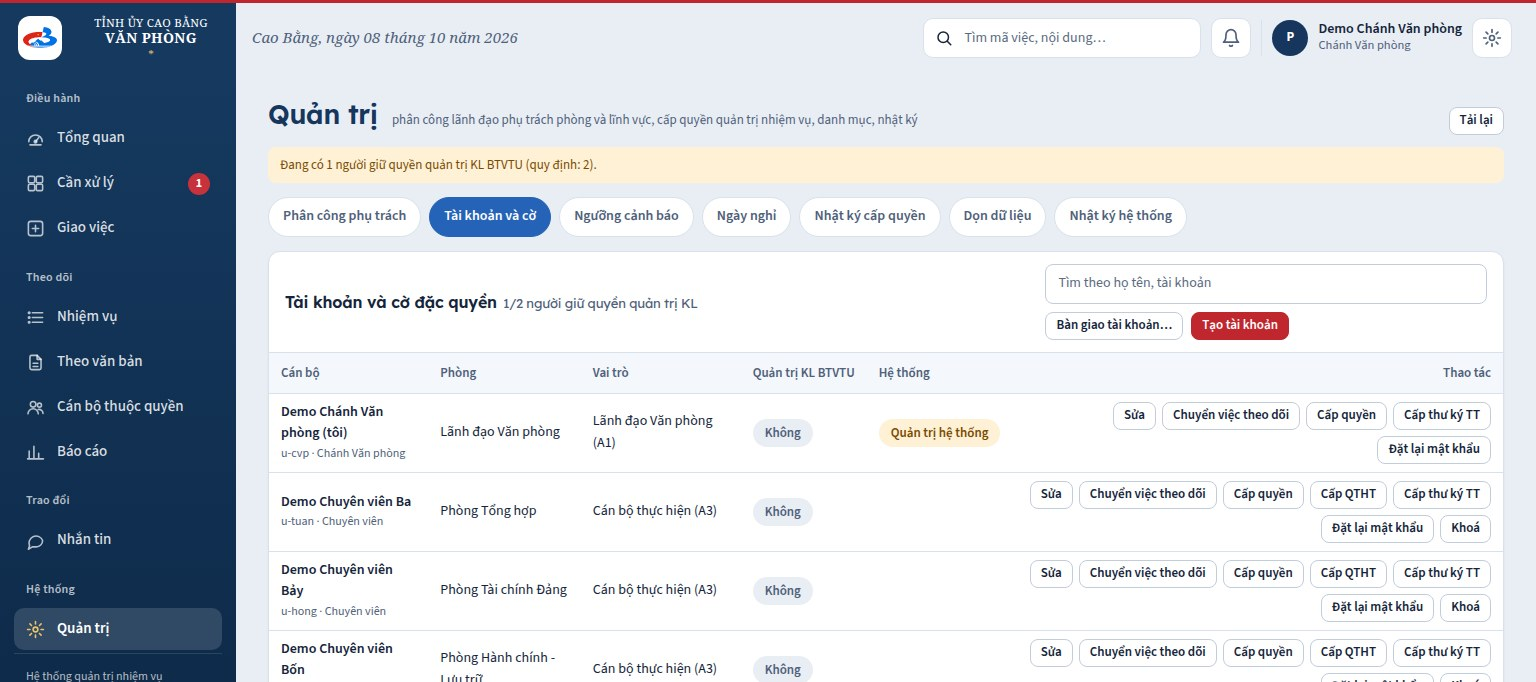
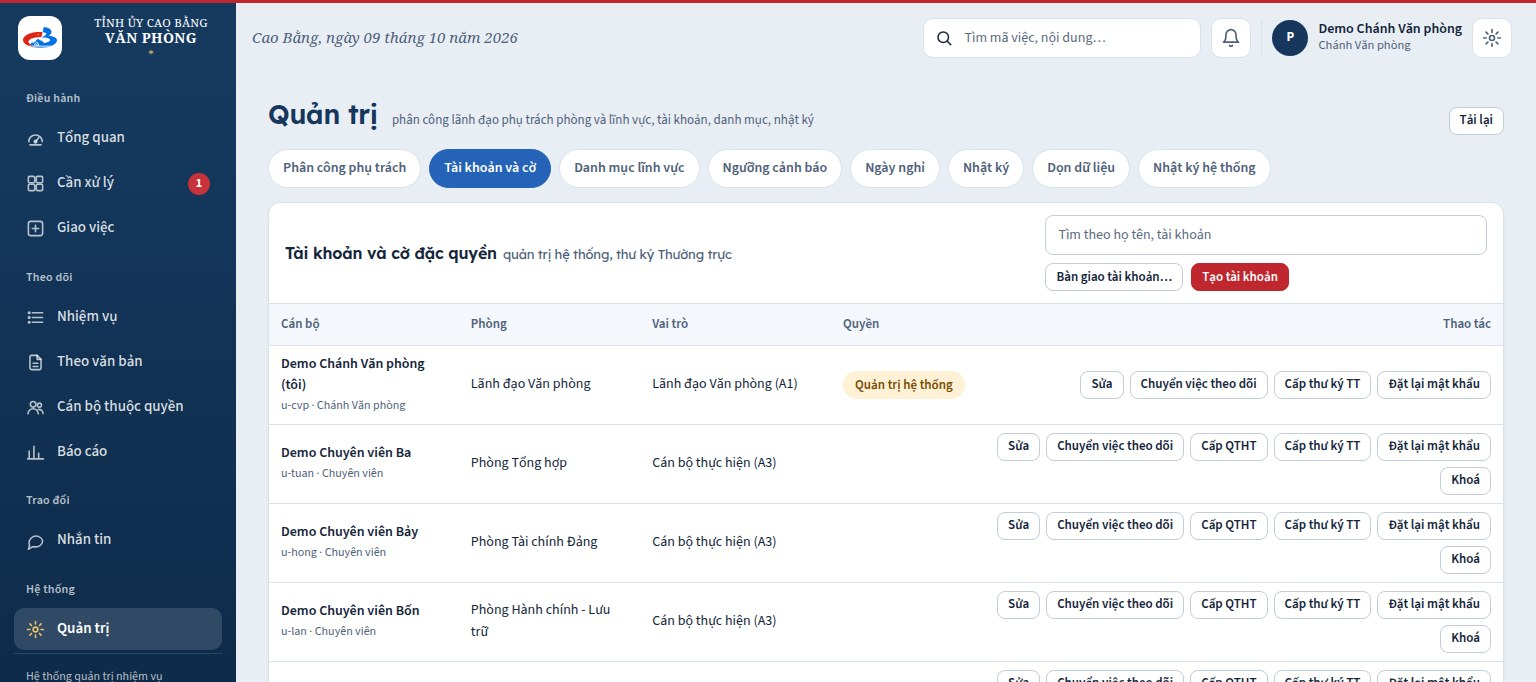
Phát hành v3.21.0: HDSD 3.21, GO-LIVE-V3.21, CHANGELOG 65
- HDSD 3.21: bảng vai trò bỏ "Cán bộ tổng hợp"; nhập Excel, nhập việc thay mặt lãnh đạo,
  danh mục lĩnh vực là việc chung ("Nhập bởi …"); Phần 8 bỏ cấp quyền quản trị nhiệm vụ;
  chụp lại a3-11-giao-viec, qt-02-tai-khoan.
- docs/GO-LIVE-V3.21.md: kiểm tay staging, SELECT xem trước, tag, cấu hình.

Claude-Session: https://claude.ai/code/session_016CpGzbs1aZfDs6AuZ5GTv4

diff --git a/docs/TRANG-THAI.md b/docs/TRANG-THAI.md
@@ -1,4 +1,4 @@
-# TRẠNG THÁI DỰ ÁN — bản bàn giao (cập nhật: 2026-10-09 — Đợt F v3.21 (0095–0097, bỏ quyền quản trị nhiệm vụ) đang trên nhánh `feature/dot-f-chuyen-vien-ngang-nhau`; production đang chạy **`v3.20.0`** (migration 0001–0094, phát hành 8/10/2026 18:05, tag trên `5fec72d`, PR #124 merge `fbd08a6`) — gộp Đợt B, E, C1, C2, D; cấu hình production chưa đổi (ba khoá mặc định 1), còn việc tay theo `docs/GO-LIVE-V3.20.md` Bước 4–6; trước đó `v3.17.0` (Đợt A: bỏ hạn nộp minh chứng, giao nhiều nhiệm vụ bằng thẻ, giao cho chính mình, tìm nhanh; migration 0077–0078, tag trên đầu nhánh `release/v3.17.0`). Đặc tả UI/UX hiện hành: `docs/DESIGN.md` mục 10 + `docs/ui-ux/mockup-v9.html`.)
+# TRẠNG THÁI DỰ ÁN — bản bàn giao (cập nhật: 2026-10-09 — Đợt F v3.21 (0095–0097, bỏ quyền quản trị nhiệm vụ) đã merge (PR #126), staging đã áp 0095–0097; chờ phát hành `v3.21.0` theo `docs/GO-LIVE-V3.21.md` (nhánh `release/v3.21.0`, HDSD 3.21); production đang chạy **`v3.20.0`** (migration 0001–0094, phát hành 8/10/2026 18:05, tag trên `5fec72d`, PR #124 merge `fbd08a6`) — gộp Đợt B, E, C1, C2, D; cấu hình production chưa đổi (ba khoá mặc định 1), còn việc tay theo `docs/GO-LIVE-V3.20.md` Bước 4–6; trước đó `v3.17.0` (Đợt A: bỏ hạn nộp minh chứng, giao nhiều nhiệm vụ bằng thẻ, giao cho chính mình, tìm nhanh; migration 0077–0078, tag trên đầu nhánh `release/v3.17.0`). Đặc tả UI/UX hiện hành: `docs/DESIGN.md` mục 10 + `docs/ui-ux/mockup-v9.html`.)
 
 Đọc trước: `CLAUDE.md` (quy tắc), **`docs/MUC-TIEU-1400.md` (thước đo mọi giai đoạn)**, `docs/SPEC.md` (v3, nghiệp vụ), `docs/RA-SOAT-HIEN-TRANG.md` (giữ/sửa/hợp nhất/bỏ), `docs/CAU-HOI-NGHIEP-VU.md` (15 câu chờ chủ dự án), `docs/LO-TRINH-V3.md` (GĐ14–24, migration từ 0022), `docs/DESIGN.md` (hệ thống thiết kế; **mục 10 = giao diện v9, đặc tả hiện hành**) + **`docs/ui-ux/mockup-v9.html`** (bản mẫu v9; `mockup-v8/` và `mockup-v7.html` là lịch sử — v9 thắng khi khác), `docs/kien-truc.md` (pipeline, secret, quay lui), `docs/PROMPTS.md` (prompt theo giai đoạn). Tra cứu: `docs/SPEC-v2-luu.md` (mã yêu cầu cũ), `docs/thiet-ke-theo-doi-kl-btvtu.md` (thiết kế GĐ8–10, đóng băng). Lịch sử: `CHANGELOG.md` mục 7–20.
 
@@ -106,7 +106,7 @@ git tag v2.x.y && git push origin v2.x.y                        # → deploy-pro
 
 -11. **CI e2e cục bộ + Đợt B v3.18** (7–8/10/2026, PR #119 CI, PR Đợt B nhánh `feature/dot-b-thay-mat-nhom`, CHANGELOG 57–58): PR chạy e2e trên Supabase cục bộ của runner (≈ 7 phút, không phụ thuộc staging), staging chỉ smoke sau merge + bộ đủ 03:00 (`kiem-thu-dem.yml`). Đợt B (migration **0079–0084**): Owner luôn là phòng / cán bộ Văn phòng (đơn vị ngoài bị chặn mọi vai, Excel → chờ hoàn thiện); thay mặt theo nhóm "Lãnh đạo Văn phòng" / "Thường trực Tỉnh ủy" (`giao_thay_mat_nhom` + người đại diện ở `giao_thay_mat_cho`; nhóm Lãnh đạo VP = Chánh VP + PCVP trong phạm vi việc được báo / duyệt — 0083; thay mặt Thường trực = Thường trực giao, cả ở nghiệm thu); Chánh VP / quản trị KL chọn được lãnh đạo VP làm Owner. **Khi áp production**: 0079–0084 không đổi dữ liệu cũ; cần chủ dự án xác nhận trong phiên (quy tắc 12). HDSD: nội dung 5.3, 7.1, 7.7 đã sửa, **chưa dựng lại PDF / DOCX và chưa đổi PHIEN_BAN 3.18** (làm ở PR phát hành). Khối 3 "Sản phẩm và hạn": chủ dự án chọn gộp một bố cục (8/10) — đã làm trong cùng PR: biểu mẫu hai khối, thẻ 1 = ô chính, "+ Thêm nhiệm vụ", "Thông tin thêm" thu gọn; ảnh chụp HDSD gv-02 / gv-04 / a0-03b / a1-03 / a2-03 cần chụp lại khi dựng PDF v3.18.
 
--17. **Đợt F v3.21 — mọi chuyên viên ngang nhau** (9/10/2026, nhánh `feature/dot-f-chuyen-vien-ngang-nhau`, migration **0095–0097**, CHANGELOG 64, SPEC GV-19): chủ dự án quyết bỏ quyền quản trị nhiệm vụ (`quan_tri_kl`) và Ủy quyền giao việc; nhập Excel, nhập việc thay mặt lãnh đạo / Thường trực, sửa danh mục lĩnh vực thành quyền chung (mọi tài khoản trừ Thường trực), lưu vết chỉ ghi tài khoản thực hiện ("Nhập bởi X", không ghi "thay mặt Y" — cả vết cũ trong diễn biến); người nhập xem lại và là tầng giao của việc mình nhập; giữ thư ký Thường trực (đóng chỉ đạo TT thay mặt) và quản trị hệ thống. 0096 **thu cờ `quan_tri_kl` của mọi tài khoản khi áp** (ghi nhật ký). 0097 (rà soát): Excel "đã xong ngoài hệ thống" kiểm phạm vi, cập nhật theo mã ngoài phạm vi bị bỏ qua. Còn: CI, merge, phát hành `v3.21.0` (câu xác nhận áp 0095–0097 lên production trong phiên); trên production còn đặt `pham_vi_chuyen_vien = 2` nếu muốn chuyên viên có "Tổng quan phòng" (GO-LIVE Bước 4).
+-17. **Đợt F v3.21 — mọi chuyên viên ngang nhau** (9/10/2026, nhánh `feature/dot-f-chuyen-vien-ngang-nhau`, migration **0095–0097**, CHANGELOG 64, SPEC GV-19): chủ dự án quyết bỏ quyền quản trị nhiệm vụ (`quan_tri_kl`) và Ủy quyền giao việc; nhập Excel, nhập việc thay mặt lãnh đạo / Thường trực, sửa danh mục lĩnh vực thành quyền chung (mọi tài khoản trừ Thường trực), lưu vết chỉ ghi tài khoản thực hiện ("Nhập bởi X", không ghi "thay mặt Y" — cả vết cũ trong diễn biến); người nhập xem lại và là tầng giao của việc mình nhập; giữ thư ký Thường trực (đóng chỉ đạo TT thay mặt) và quản trị hệ thống. 0096 **thu cờ `quan_tri_kl` của mọi tài khoản khi áp** (ghi nhật ký). 0097 (rà soát): Excel "đã xong ngoài hệ thống" kiểm phạm vi, cập nhật theo mã ngoài phạm vi bị bỏ qua. PR #126 merge (CI xanh lượt đầu). Còn: phát hành `v3.21.0` theo `docs/GO-LIVE-V3.21.md` (câu xác nhận áp 0095–0097 lên production trong phiên, tag, duyệt); trên production còn đặt `pham_vi_chuyen_vien = 2` nếu muốn chuyên viên có "Tổng quan phòng" (GO-LIVE Bước 4).
 
 -16. **Phát hành v3.20.0 — ĐÃ LÊN PRODUCTION** (8/10/2026, nhánh `release/v3.20.0`, CHANGELOG 63; kiểm tay staging đạt, chủ dự án chọn không thử gắn tệp tay để tiết kiệm dung lượng — CI đã kiểm; SELECT xem trước: 0 minh chứng chờ, 0 việc tự hoàn thành; chủ dự án xác nhận trong phiên, đẩy tag, duyệt; deploy-prod xanh đủ: backup → db push → Pages → smoke, tag `production` = `5fec72d`). Chủ dự án muốn chuyên viên có Tổng quan phòng → đặt `pham_vi_chuyen_vien = 2` trên production (staging đã thử rồi trả về 1). Đợt D merge (PR #123, CI xanh; sửa sau CI lần 1: chặn NULL trong hàm quyền, 0094 "đã nhận" của lãnh đạo chỉ theo dõi không thay chuyên viên nhận), staging deploy xanh. HDSD 3.20 dựng lại (59 trang; ảnh chụp bằng bộ dựng thử dữ liệu hư cấu, tên "Demo …"; tệp .docx / .pdf không commit — chép vào `D:\TU 2026\kiem-thu\huong-dan-su-dung\`). Các bước còn lại theo `docs/GO-LIVE-V3.20.md`, mỗi lần một bước: (1) chủ dự án kiểm tay staging 9 mục; (2) chạy hai câu SELECT xem trước trên production; (3) câu xác nhận áp 0079–0094 + đẩy tag `v3.20.0` trên đầu nhánh phát hành + duyệt deploy; (4) Claude merge PR phát hành; (5) cấu hình, tài khoản, dữ liệu thật trên production. Ảnh HDSD còn chụp từ staging cũ (menu chưa đổi, không ảnh hưởng nội dung): nx-*, qt-01/04/06/08/09, a3-06/07/09/10, a0-*, a2-05/06/07/09/10/11, chung-01..08.
 

diff --git a/docs/GO-LIVE-V3.21.md b/docs/GO-LIVE-V3.21.md
@@ -1,0 +1,39 @@
+# Phát hành v3.21.0 — Đợt F: mọi chuyên viên ngang nhau
+
+Bản phát hành **v3.21.0** = Đợt F (PR #126, migration **0095–0097**) + PR phát hành `release/v3.21.0` (HDSD 3.21). Production đang chạy `v3.20.0` (0001–0094); staging đã áp 0001–0097 khi merge PR #126.
+
+Mỗi bước do **chủ dự án** làm (hoặc làm cùng Claude trong phiên). Claude không tự thao tác trên production, không dùng mật khẩu / khoá service. Làm **lần lượt**.
+
+## Thay đổi khi áp lên production
+- **0095, 0097**: chỉ đổi hàm / view — không đổi dữ liệu cũ. Diễn biến hiện vết cũ "X giao thay mặt Y" thành "Nhập bởi X" (bảng lịch sử giữ nguyên).
+- **0096** (đổi dữ liệu, không hoàn tác bằng hàm): **thu cờ "quản trị nhiệm vụ" của mọi tài khoản** đang giữ (kể cả ủy quyền còn hạn), mỗi tài khoản một dòng nhật ký cấp quyền + nhật ký hệ thống. Sau đó nhập Excel, nhập việc thay mặt lãnh đạo, sửa danh mục lĩnh vực là việc chung của mọi tài khoản trừ Thường trực. Giữ cờ thư ký Thường trực và quản trị hệ thống.
+- Edge Function `quan-tri-tai-khoan` được deploy lại cùng lượt (không cấp lại cờ quản trị nhiệm vụ).
+
+## Bước 1 — Kiểm tay trên staging (`https://haidang21ktvptu.github.io/vptu-mvp-task/staging/`)
+1. `demo_cv1`: **Giao việc** → ô **Thay mặt** có, để trống = giao thẳng; chọn "Demo Trưởng phòng" → giao một việc cho chính mình → mở việc: dòng đầu ngăn chi tiết ghi "… bởi Demo Chuyên viên Một", Diễn biến ghi "Nhập bởi Demo Chuyên viên Một" (không có chữ "thay mặt").
+2. `demo_cv1`: Bánh răng → **Danh mục lĩnh vực** mở được; **Nhập từ Excel** có ở màn Giao việc.
+3. `demo_qtht`: Quản trị → Tài khoản và cờ: không còn cột / nút "Quản trị KL BTVTU"; không còn thẻ Ủy quyền.
+
+## Bước 2 — Xem trước trên production (chỉ đọc, SQL Editor của project production)
+```sql
+SELECT count(*) FILTER (WHERE quan_tri_kl OR quan_tri_kl_het_han IS NOT NULL) AS se_thu_co_quan_tri_nv,
+       count(*) FILTER (WHERE thu_ky_thuong_truc AND NOT coalesce(bi_khoa, false)) AS thu_ky_tt_dang_hoat_dong
+FROM accounts WHERE NOT is_system;
+```
+`thu_ky_tt_dang_hoat_dong` nên ≥ 1: từ v3.21, xem lại kết quả việc Thường trực giao Chánh Văn phòng chỉ còn thư ký Thường trực (không còn người dự phòng giữ quyền quản trị nhiệm vụ).
+
+## Bước 3 — Phát hành (quy tắc 12 + `docs/kien-truc.md` mục 7)
+1. Chủ dự án gửi trong phiên: **"Đồng ý áp migration 0095–0097 lên production"**.
+2. PR `release/v3.21.0` xanh đủ check. Gắn tag lên **đầu nhánh phát hành**:
+   ```
+   git fetch origin && git checkout release/v3.21.0 && git pull
+   git tag v3.21.0 && git push origin v3.21.0
+   ```
+3. GitHub → Actions → run "Deploy production" của tag → **Review deployments** → duyệt; theo dõi đến smoke xanh và tag `production`.
+4. Kiểm `https://haidang21ktvptu.github.io/vptu-mvp-task/phien-ban.json` ghi `v3.21.0`; báo Claude merge PR phát hành bằng merge commit.
+
+## Bước 4 — Cấu hình production
+Muốn chuyên viên có **Tổng quan phòng** / **Nhiệm vụ của phòng** (chỉ xem): Quản trị → Ngưỡng cảnh báo → `pham_vi_chuyen_vien` = **2** (ghi lý do). Mặc định 1 = chuyên viên chỉ thấy việc của mình (chủ trì, theo dõi, đã giao, đã nhập).
+
+## Bước 5 — Hướng dẫn sử dụng
+Bản **HDSD v3.21** (59 trang, PDF + DOCX) dựng từ `docs/huong-dan-su-dung/` (không commit tệp dựng): 1.3 (bảng vai trò — bỏ dòng "Cán bộ tổng hợp"), 2 (bánh răng có Danh mục lĩnh vực), 3.11, 4.6, Phần 7 (nhập Excel, 7.7 nhập việc thay mặt), Phần 8, Phần 9; ảnh `a3-11-giao-viec`, `qt-02-tai-khoan` chụp lại.

diff --git a/docs/huong-dan-su-dung/README.md b/docs/huong-dan-su-dung/README.md
@@ -8,7 +8,7 @@ Thư mục này chứa **nguồn** của tài liệu *Hướng dẫn sử dụng
 - `build.mjs` — dựng `HDSD-VPTU-TASK.docx`; `--trang trang.json` điền số trang vào mục lục.
 - `trang.py` — đọc PDF (pdftotext) → số trang từng tiêu đề → `trang.json`.
 - `cat.py` — bảng vùng cắt của ảnh chụp (tệp `-cat.jpg`), để chữ trong hình to hơn.
-- `anh/` — 76 ảnh đang dùng, chụp trên **staging** bằng tài khoản demo (`demo_cv1`, `demo_truongphong`, `demo_cvp`, `demo_a0`, `demo_qtht`), 1536 px; dữ liệu trong ảnh là hư cấu (`phu-luc-2-hu-cau.xlsx`, `bang-theo-doi-tu-do-hu-cau.xlsx`, việc NV-4710…). Không chụp production, không ảnh có tên thật. Từ v3.20, 29 ảnh (màn hình chuyên viên, Trưởng phòng, Lãnh đạo Văn phòng, giao việc, quản trị) chụp bằng bộ dựng thử: frontend thật chạy với dữ liệu hư cấu, tài khoản tên "Demo …", tệp PDF mẫu tự tạo.
+- `anh/` — 76 ảnh đang dùng, chụp trên **staging** bằng tài khoản demo (`demo_cv1`, `demo_truongphong`, `demo_cvp`, `demo_a0`, `demo_qtht`), 1536 px; dữ liệu trong ảnh là hư cấu (`phu-luc-2-hu-cau.xlsx`, `bang-theo-doi-tu-do-hu-cau.xlsx`, việc NV-4710…). Không chụp production, không ảnh có tên thật. Từ v3.20, 29 ảnh (màn hình chuyên viên, Trưởng phòng, Lãnh đạo Văn phòng, giao việc, quản trị) chụp bằng bộ dựng thử: frontend thật chạy với dữ liệu hư cấu, tài khoản tên "Demo …", tệp PDF mẫu tự tạo. v3.21 chụp lại `a3-11-giao-viec` (ô Thay mặt của mọi chuyên viên) và `qt-02-tai-khoan` (bỏ cột quản trị nhiệm vụ) cũng bằng bộ dựng thử.
 
 ## Dựng lại
 Cần Node ≥ 22, LibreOffice (`soffice`) và poppler (`pdftotext`, `pdfinfo`) để tính số trang.
